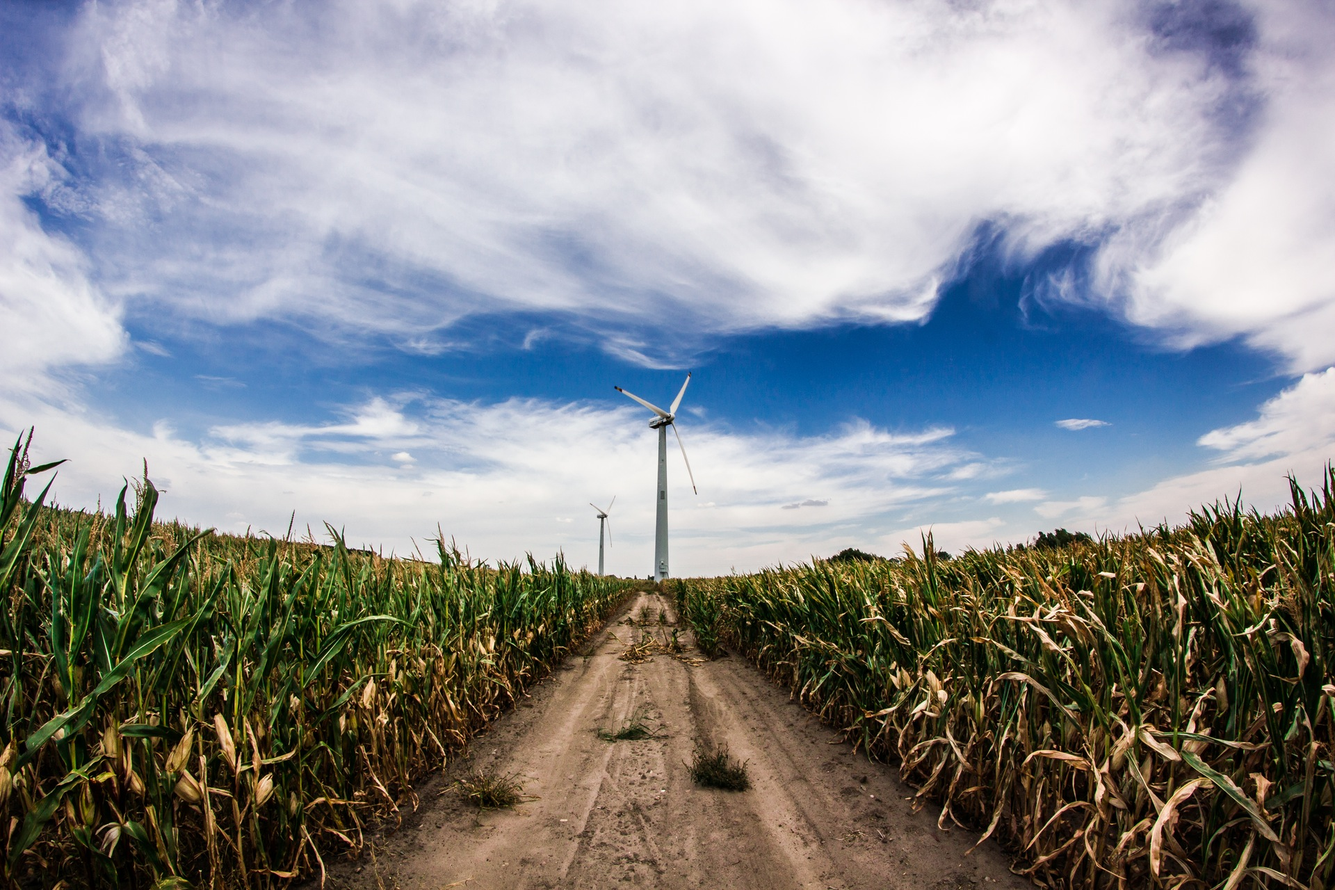
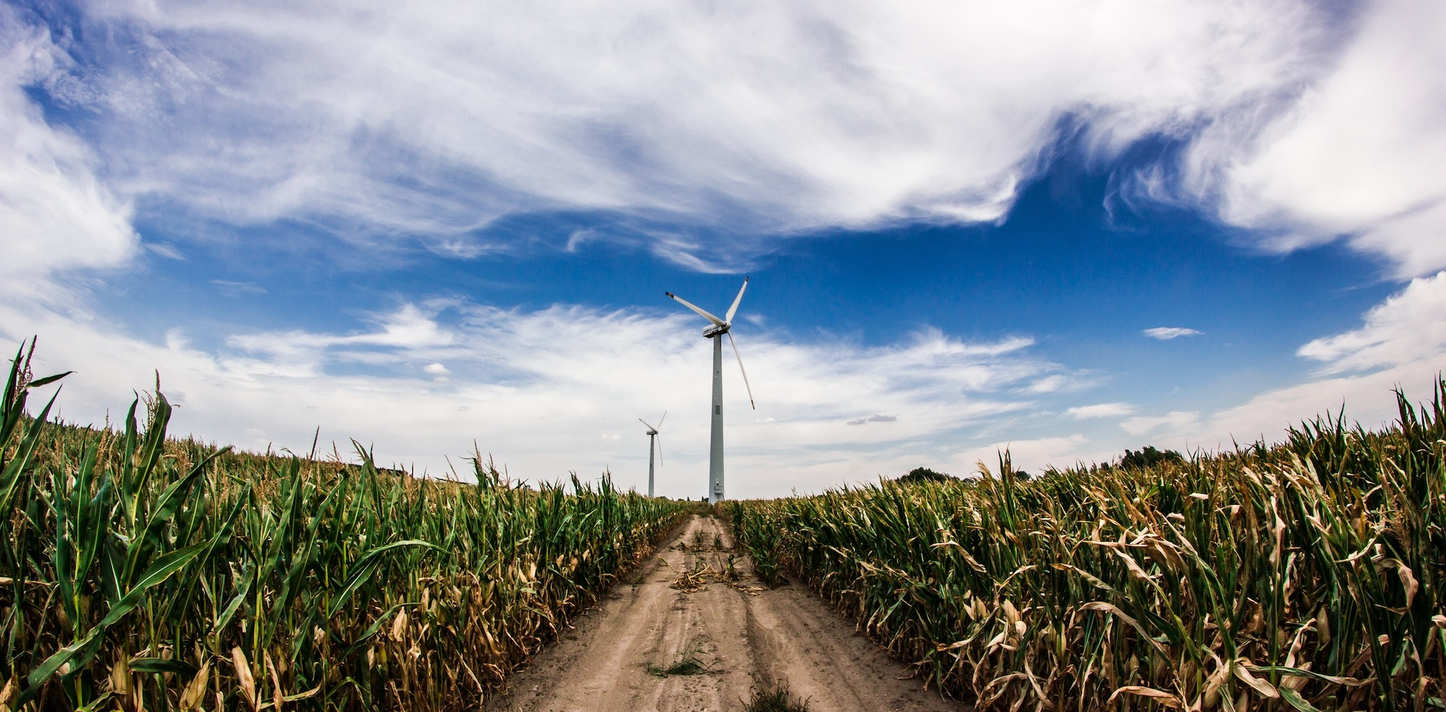
Updated sectional background styling in homepage

diff --git a/app/assets/stylesheets/home.scss b/app/assets/stylesheets/home.scss
@@ -5,16 +5,17 @@
   h1, h2, h3, h4, h5, h6 {
     font-weight: 200;
   }
+
   /********************************
       Header Styles
   ********************************/
-
   #page-main-header {
     display: flex;
     align-items: flex-end; /* Easy vertical alignment, easy life */
     color: #FFFFFF;
     height: 90vh; /* 90vh = 90% of viewport height */
     background-image: url("clouds-windmill-crops.jpg");
+    background-attachment: fixed;
     h1 {
       color: #FFFFFF;
     }
@@ -23,15 +24,15 @@
   /********************************
       Main Section Styles
   ********************************/
-
   #main-section {
     article {
-      display: flex;
-      flex-flow: row wrap;
-      align-items: center;
+      .row {
+        display: flex;
+        flex-flow: row wrap;
+        align-items: center;
+      }
       // background-color: lightgrey;
       margin-bottom: 1.5rem;
-
       padding-top: 3rem;
       padding-bottom: 3rem;
 
@@ -39,73 +40,84 @@
         font-size: 1.3rem;
         line-height: 2.0;
         color: #596362;
-        margin-bottom: 0.5rem;
+        margin-bottom: 2rem;
       }
       h2 {
         font-size: 3rem;
-        width: 50%;
-        margin-bottom: 1.25rem;
+        margin-bottom: 1rem;
       }
     }
-    article:nth-child(2n) {
+    article:nth-child(2n) { /* Every other main article */
       color: white;
-      background-color: #04895C;
       p { color: white; }
+
+      position: relative;
+      z-index: 1;
+      background-color: #04895C;
+      background-position: center 60%;
+      background-size: cover;
+      background-repeat: no-repeat;
+      background-attachment: fixed;
+      &:before {
+        content: "";
+        position: absolute;
+        z-index: -1;
+        top: 0;
+        bottom: 0;
+        left: 0;
+        right: 0;
+        background: linear-gradient(rgba(0, 0, 0, 0.3), rgba(0, 0, 0, 0.8));
+      }
     }
 
     /********************************
         Article 1 Styles
     ********************************/
-
-    #sdg-list {
-      display: flex;
-      flex-flow: row nowrap;
-      align-items: center;
-      justify-content: space-between;
-
-      list-style: none;
-      margin: 0;
-      padding: 0;
-      width: 100%;
-      li {
-        width: 22%;
-        img {
-          display: block;
-          width: 100%;
-          height: auto;
+    #article-1 {
+      #sdg-list {
+        display: flex;
+        flex-flow: row nowrap;
+        align-items: center;
+        justify-content: space-between;
+        list-style: none;
+        margin: 0;
+        padding: 0;
+        width: 100%;
+        li {
+          width: 22%;
+          img {
+            display: block;
+            width: 100%;
+            height: auto;
+          }
         }
       }
     }
 
+    /********************************
+        Article 2 Styles
+    ********************************/
     #article-2 {
-      align-items: baseline;
+      background-image: url("aerial-turbines.jpg");
       section {
         display: flex;
         flex-flow: row wrap;
-        > *:nth-child(1) {
-          width: 100%;
-        }
       }
     }
 
+    /********************************
+        Article 3 Styles
+    ********************************/
+    #article-3 {}
 
-  }
-
-
-
-  /********************************
-      Article 2 Styles
-  ********************************/
-
-  #main-section #article-2 section {
-    display: flex;
-    flex-flow: row wrap;
+    /********************************
+        Article 4 Styles
+    ********************************/
+    #article-4 {
+      background-image: url("earth-urban.jpg");
+    }
   }
 }
-
-/********************************
-    Article 3 Styles
-********************************/
 
 
 /********************************
@@ -114,23 +126,24 @@
 
 @media (max-width: 767px) { /* Up to md */
   .static_pages_home {
-    #main-section #article-2 section > *:nth-child(1) {
-      margin-bottom: 0;
-      padding-top: 0.75rem;
-      padding-bottom: 0.75rem;
-    }
-    #main-section #article-2 section {
-      align-items: center;
-      justify-content: space-between;
-    }
-    #main-section #article-2 section:nth-child(1) {
-      align-items: center;
-    }
-    #main-section #article-2 section .btn {
-      width: 40%;
-      padding-top: 0.75rem;
-      padding-bottom: 0.75rem;
-      margin-bottom: 0;
+    #main-section {
+      #article-2 {
+        section {
+          // align-items: center;
+          justify-content: flex-start;
+          margin-bottom: 2rem;
+          p {
+            margin-bottom: 1.25rem;
+          }
+          .btn {
+            width: 40%;
+            padding-top: 0.75rem;
+            padding-bottom: 0.75rem;
+            margin-bottom: 0;
+            min-width: 13rem;
+          }
+        }
+      }
     }
     #main-section #article-3 section:nth-child(2) {
       height: 12.5rem;
@@ -141,25 +154,22 @@
 
 @media (min-width: 768px) { /* md and up */
   .static_pages_home {
-    #main-section article h2 {
-      width: 100%;
-    }
-    #main-section #article-2 .btn {
-      order: -1;
-    }
-    #main-section #article-3 {
-      overflow: hidden;
-    }
-    #main-section #article-3 img {
-      display: block;
-      width: 100%;
-      height: auto;
-    }
-    #sdg-list li {
-      width: 24%;
+    #main-section {
+      #article-1 #sdg-list li {
+        width: 24%;
+      }
+      #article-2 .btn {
+        order: -1;
+        width: 100%;
+      }
+      #article-3 {
+        overflow: hidden;
+        img {
+          display: block;
+          width: 100%;
+          height: auto;
+        }
+      }
     }
   }
-}
-
-@media (min-width: 768px) { /* md and up */
 }
